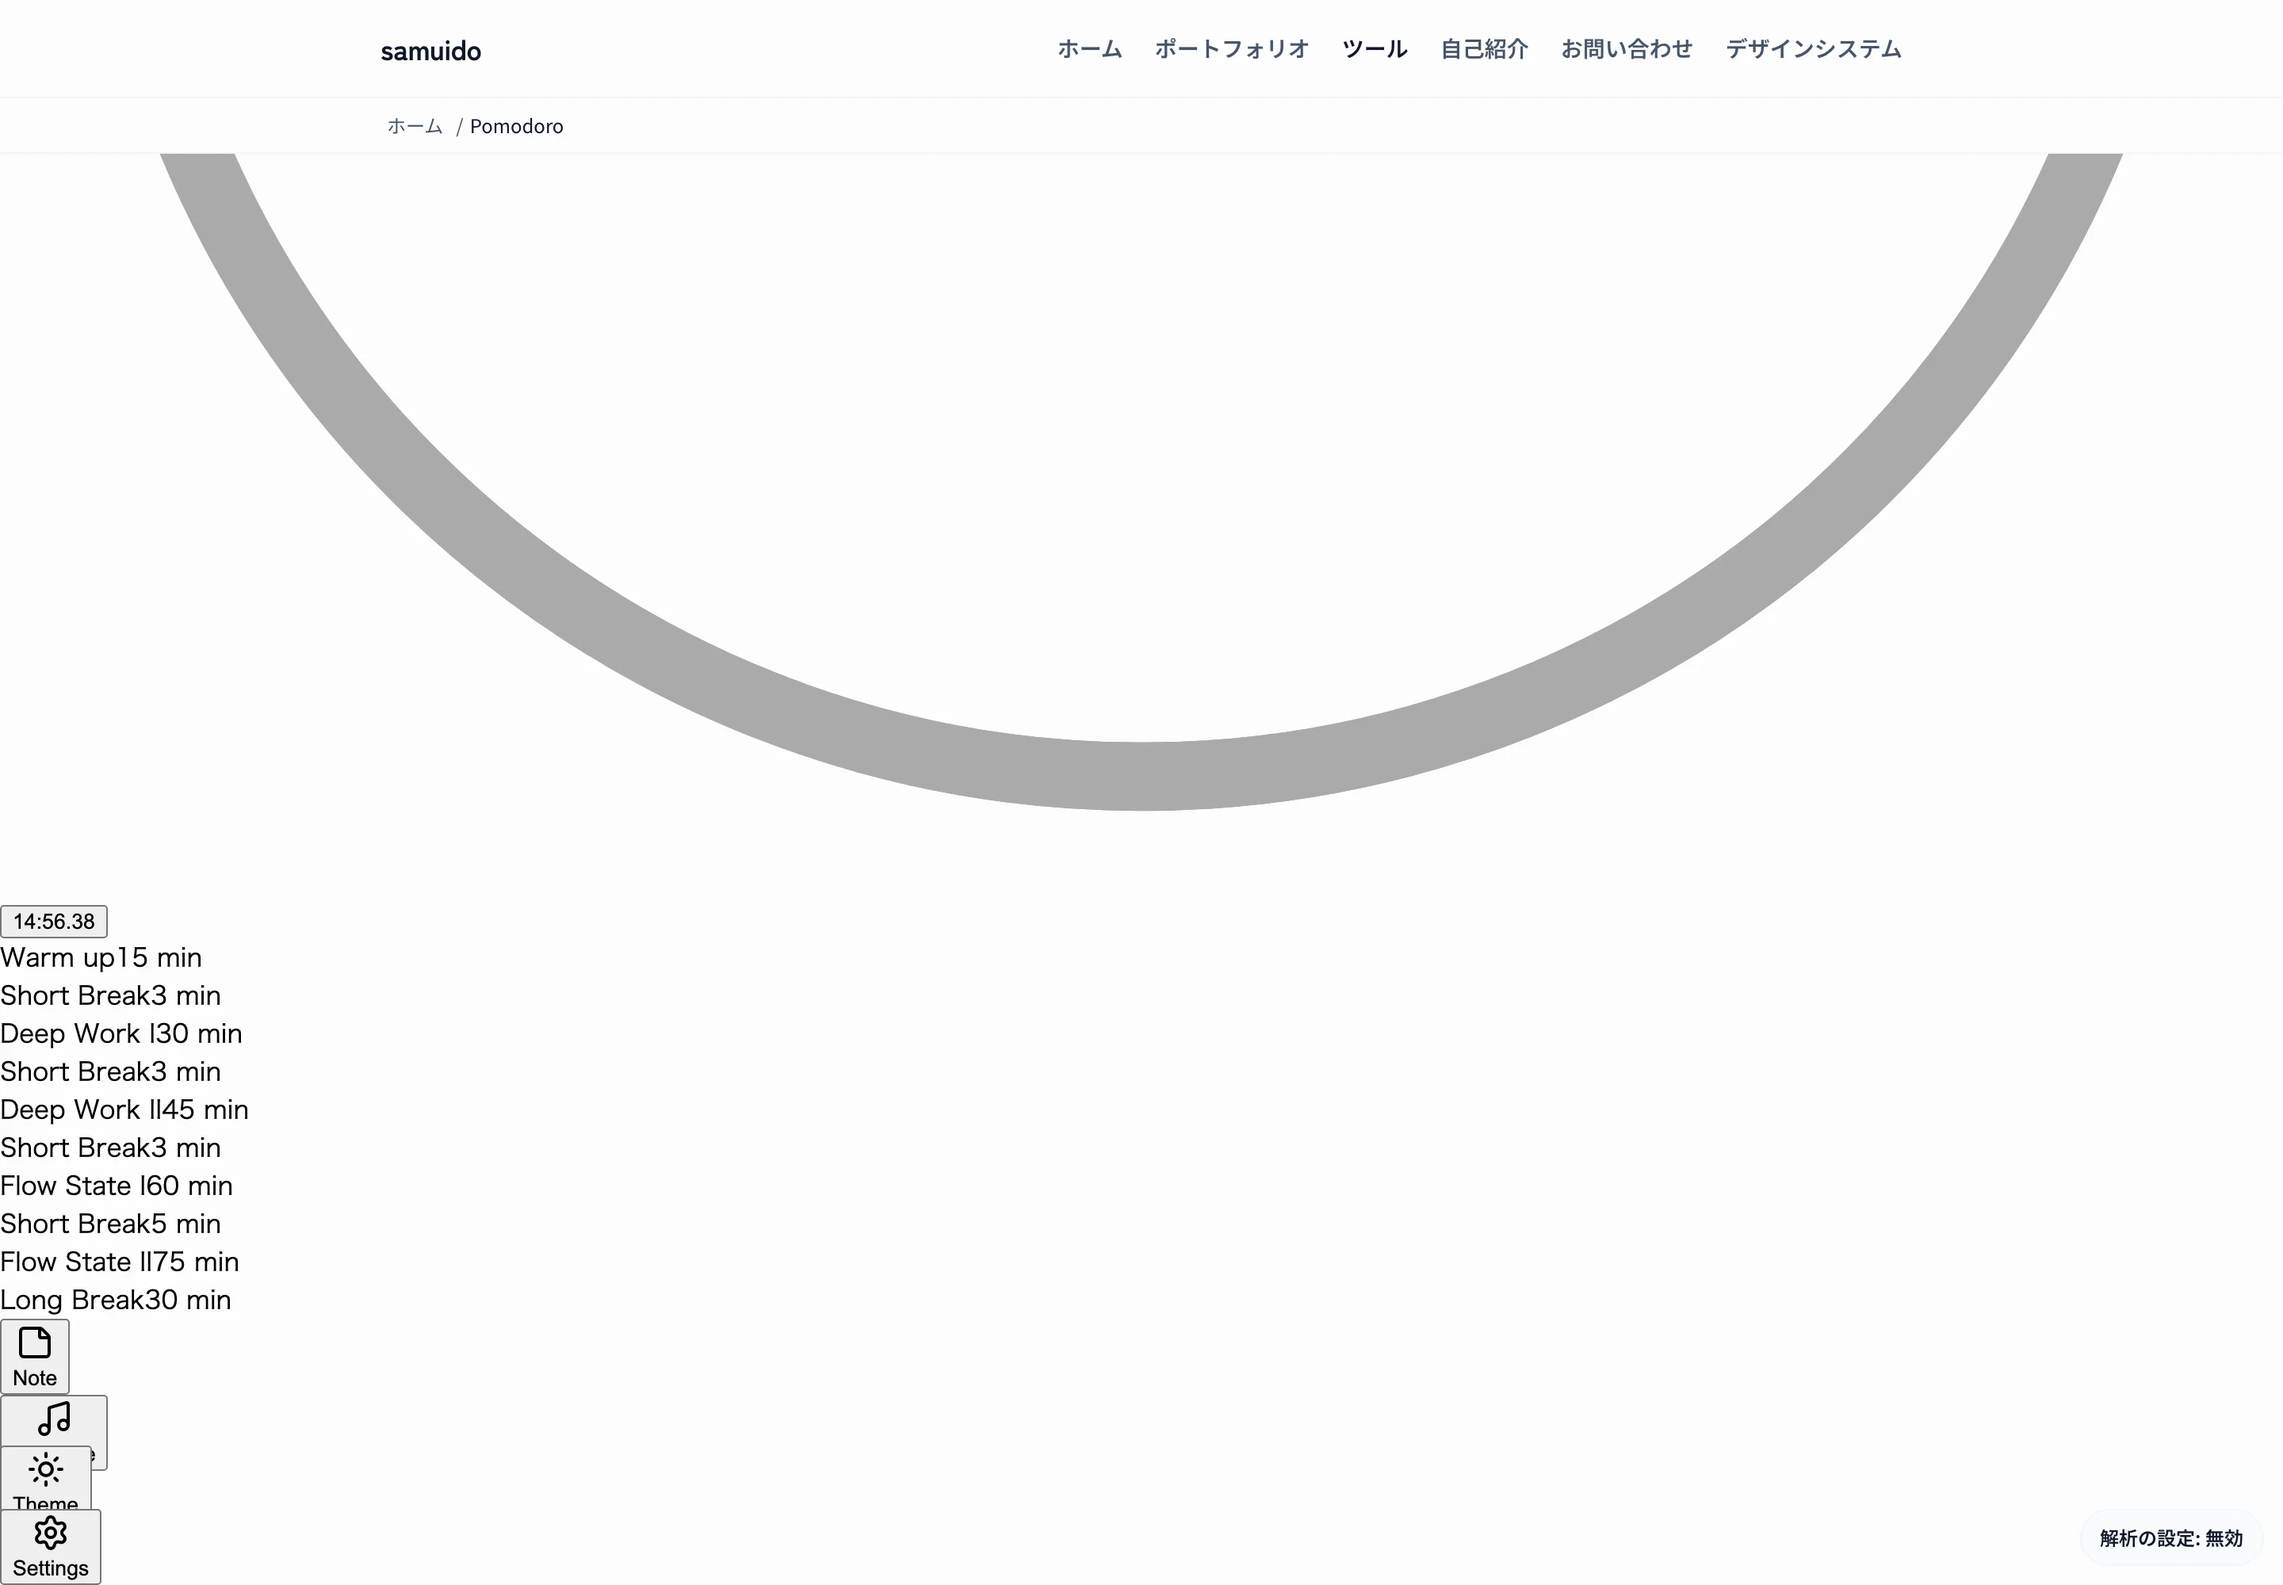
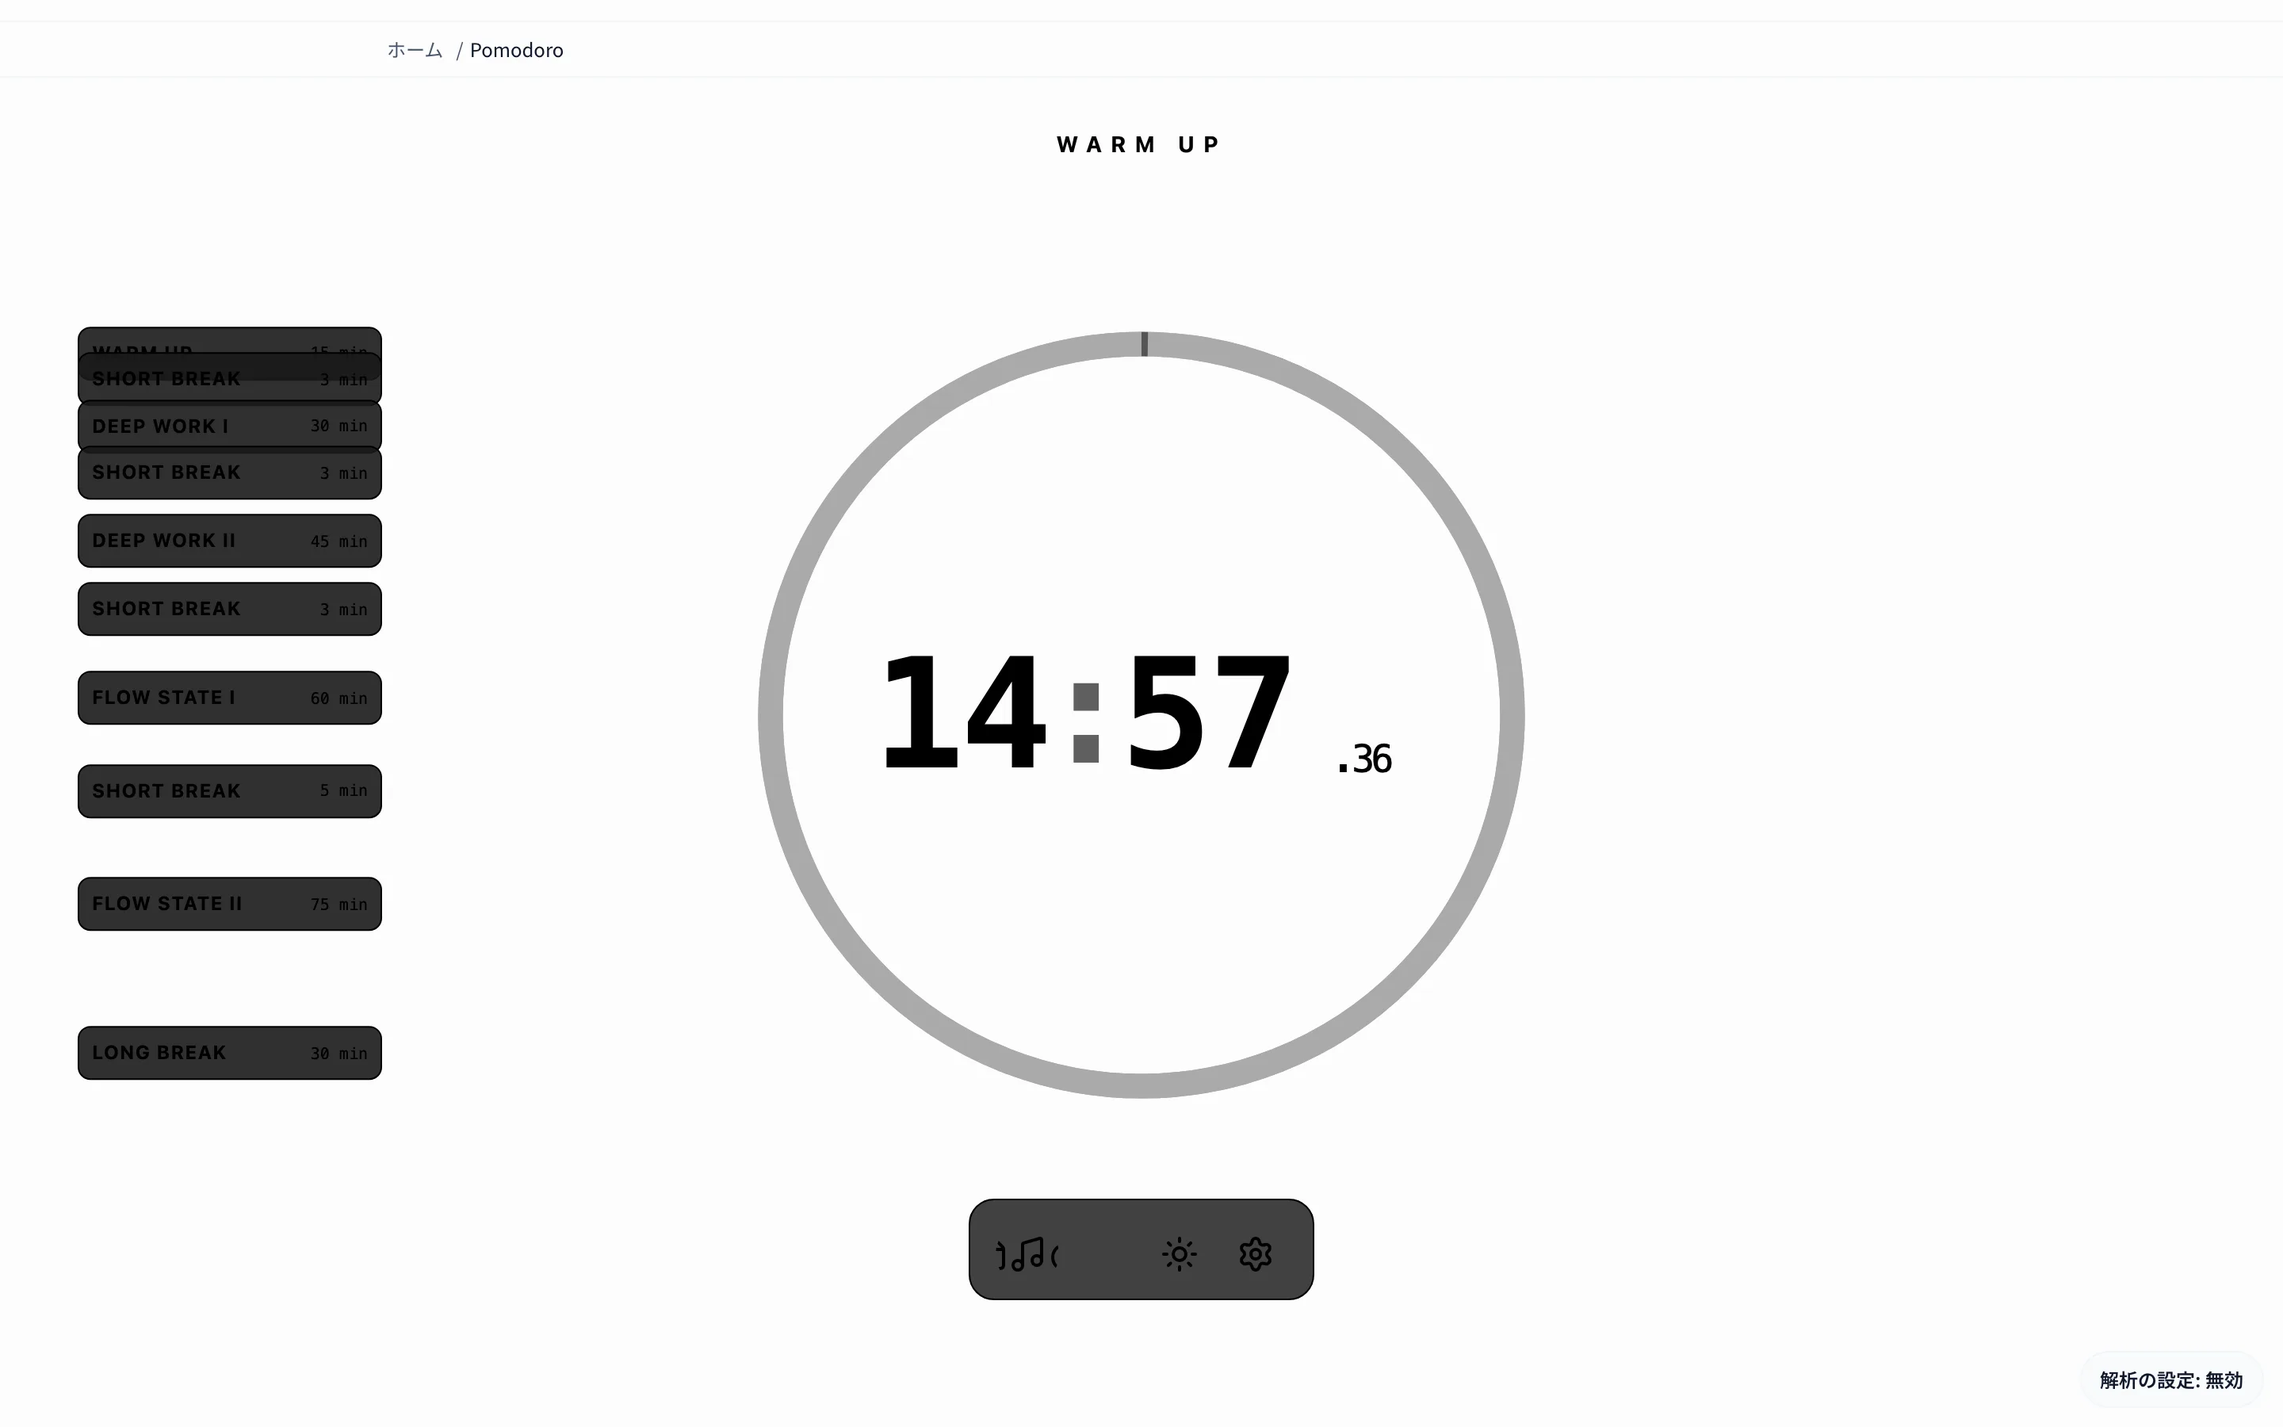
docs(verification): re-measure pomodoro after the stylesheet pin bump
Record that the standalone artifact now references its emitted CSS, the
frame renders the styled timer, and both 390 and 1440 stay at
scrollWidth == clientWidth. Replace the two captures and note the
responsive progress-bar overlap as an open follow-up.

Refs #868

diff --git a/docs/verification/tools/host-interaction-batch-0-8-1.md b/docs/verification/tools/host-interaction-batch-0-8-1.md
@@ -146,23 +146,31 @@
 | 観測結果 | タイマー表示が `15:00.00` → `14:57.41` に減少（カウントダウン開始） |
 | 390px host 横スクロール | なし（390 = 390） |
 | 390px frame 横スクロール | なし（390 = 390） |
-| 1440 スクリーンショット | [pomodoro-desktop.webp](./pomodoro-desktop.webp)（2880×2000） |
-| 390 スクリーンショット | [pomodoro-mobile.webp](./pomodoro-mobile.webp)（780×1688） |
+| 1440 スクリーンショット | [pomodoro-desktop.webp](./pomodoro-desktop.webp)（2880×1800、Issue #868 再取得） |
+| 390 スクリーンショット | [pomodoro-mobile.webp](./pomodoro-mobile.webp)（780×1688、Issue #868 再取得） |
+
+再測定は 2026-11-03、Tool pin を `d4add8a`（rebuildup/tool-pomodoro PR #10）へ
+bump した後に行った。詳細は §12。
 
 実測した注意点:
 
-- artifact の `index.html` は CSS を読み込まず、frame 内は**スタイル未適用**で
-  描画される（巨大な円弧 + 素のテキスト。desktop の capture がその実測である）。
+- 初回測定では artifact の `index.html` が CSS を読み込まず、frame 内は
+  **スタイル未適用**で描画されていた（巨大な円弧 + 素のテキスト）。
+  Issue #868 の pin bump 後は `dist/index.html` が
+  `./assets/index-*.css` を参照し、円形タイマー・Dock・ラベルが
+  設計どおりに描画される。
 - sandbox の opaque origin のため `localStorage` / `sessionStorage` の読み取りが
   `SecurityError` になる（console に `pomodoro-settings` / `pomodoro-stats` /
   `pomodoro-sessions` / `pomodoro-current-step` / `pomodoro-time-left`）。
-  タイマーのカウントダウン自体は継続する。
+  タイマーのカウントダウン自体は継続する（Issue #825 / ADR-0020 の範囲）。
 
 未確認:
 
 - タイマーの完走・セッション切替・通知。
 - `Note` / `YouTube` / `Theme` / `Settings` パネル。
 - storage 永続化（sandbox で拒否されるため未確認）。
+- 390px で左の workflow progress bar がタイマー円弧に重なる（CSS 読込とは
+  独立した responsive レイアウトの課題。本 Issue では変更していない）。
 
 ## 6. fillgen
 
@@ -305,7 +313,7 @@
 | qr-generator | 390 / 390 | 686 / 390 | **あり** |
 | sequential-png-preview | 390 / 390 | 390 / 390 | なし |
 | svg2tsx | 390 / 390 | 390 / 390 | なし |
-| pomodoro | 390 / 390 | 390 / 390 | なし |
+| pomodoro | 390 / 390 | 390 / 390 | なし（CSS 未読込は Issue #868 で修正。幅は初回から 390） |
 | fillgen | 390 / 390 | 390 / 390 | なし |
 | pi-game | 390 / 390 | 422 / 390 | **あり** |
 | code-type-p5 | 390 / 390 | 390 / 390 | なし |
@@ -314,3 +322,55 @@
 
 host ページ自体はいずれも 390px で横スクロールしない。`qr-generator` と
 `pi-game` は **frame 内だけ**が横にはみ出す。
+
+## 12. Issue #868 再測定（pomodoro の standalone CSS）
+
+- 再測定日: **2026-11-03**
+- 対象ブランチ: `868`（base `origin/release-0-8-1`）
+- 測定環境: ローカル preview `http://127.0.0.1:5182`
+  （`pnpm run build` → `node scripts/sync-cf-build-output.mjs` →
+  `vite preview --port 5182 --strictPort`）、`@playwright/test` 同梱の
+  bundled Chromium（headless、DPR 2）
+- viewport: **390×844** と **1440×900**
+- GA4 同意バンドの「拒否する」を先に押下し、activation gate
+  （「読み込みを開始する / Load the tool」）を押してから iframe を測定した。
+- タイマー中央をクリックしてカウントダウンを開始した（`15:00.00` → `14:57.36`）。
+
+### Tool pin
+
+| slug | 修正前 pin | 修正後 pin | Tool repo PR |
+| --- | --- | --- | --- |
+| pomodoro | `7ce10d7` | `d4add8a` | rebuildup/tool-pomodoro #10 |
+
+### 実測値
+
+| 項目 | 修正前 | 修正後 |
+| --- | --- | --- |
+| `dist/index.html` の stylesheet | 参照なし（CSS asset も未生成） | `./assets/index-D94KFgki.css`（24.0KB / gzip 5.3KB） |
+| frame の見た目 | スタイル未適用（巨大な円弧 + 素のテキスト） | 円形タイマー・workflow bar・Dock・ラベルが styled |
+| 390×844 frame `scrollWidth` / `clientWidth` | 390 / 390 | 390 / 390 |
+| 1440×900 frame `scrollWidth` / `clientWidth` | 1440 / 1440（初回は幅のみ記録） | 1440 / 1440 |
+| console error | CSS 未読込に伴うものなし（storage の `SecurityError` は別件） | なし |
+
+### 原因と修正（Tool 側）
+
+コンポーネントは Tailwind utility class で書かれているが、旧 host
+（my-web-2025）の stylesheet を前提にしていた。standalone build には
+stylesheet の import がなく、iframe は別 document のため host の CSS も
+届かない。rebuildup/tool-pomodoro PR #10 で `tailwindcss` /
+`@tailwindcss/vite` 4.3.3 を devDependency に追加し、`src/styles.css` を
+entrypoint から import して `vite build` 時に CSS を同梱するようにした。
+
+host 側は gitlink の pin bump と manifest / inventory の更新のみ。
+
+### 証跡
+
+- [pomodoro-desktop.webp](./pomodoro-desktop.webp)（2880×1800）
+- [pomodoro-mobile.webp](./pomodoro-mobile.webp)（780×1688）
+
+未確認:
+
+- 390px で左の workflow progress bar がタイマー円弧に重なる
+  （CSS 読込とは独立した responsive レイアウトの課題。本 Issue では未変更）。
+- 1440×900 で progress bar の先頭項目が上端で切れる（縦方向）。
+- `Settings` / `Note` / `YouTube` パネル内の見た目。
